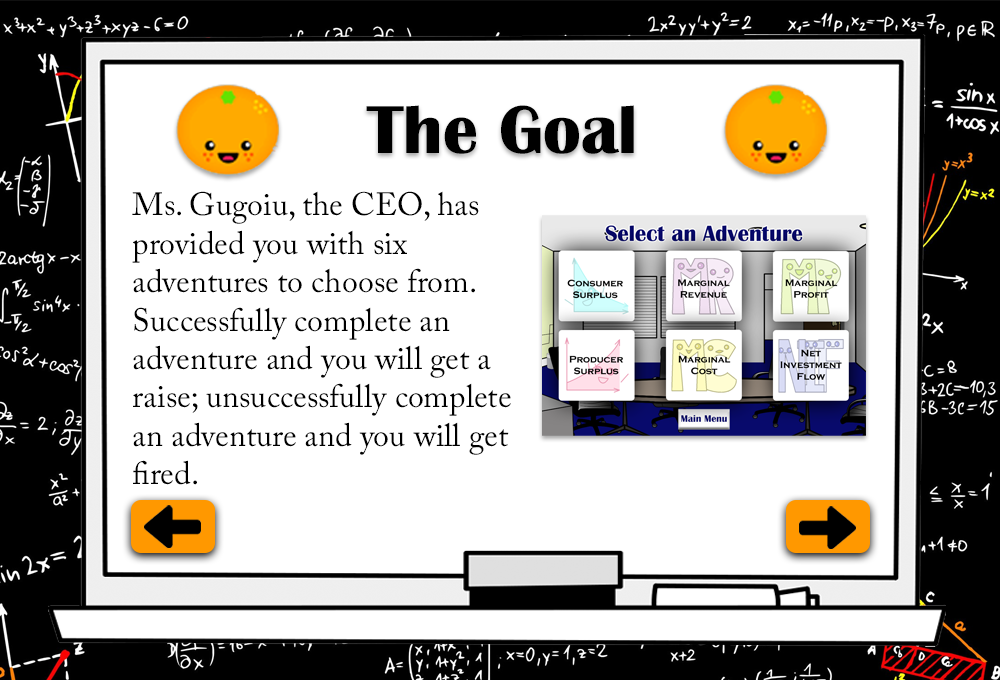
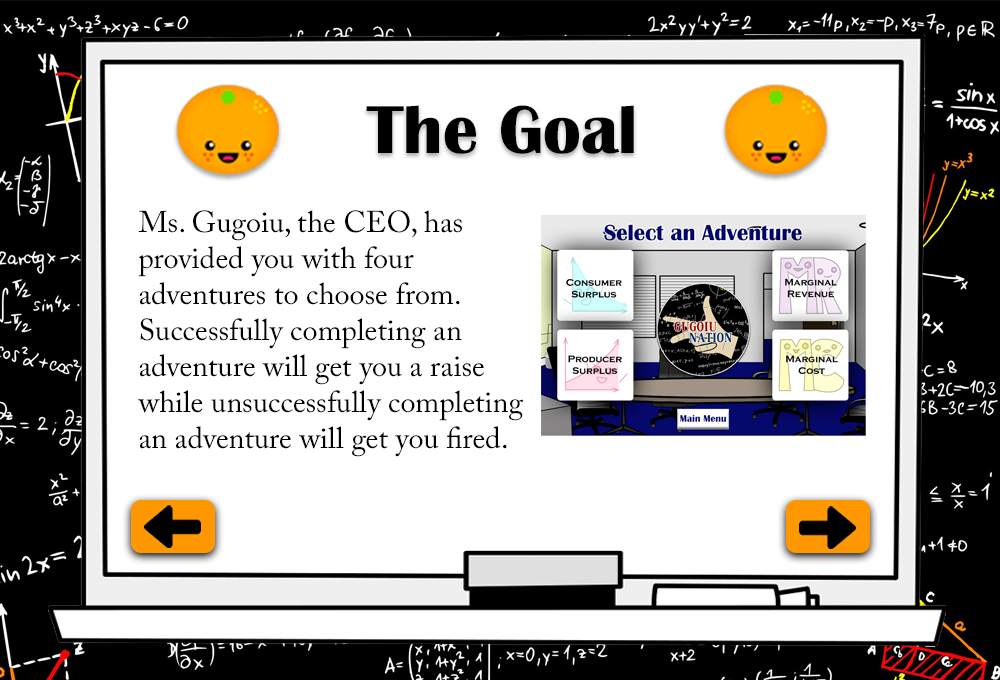
Fixed instructions

Changed region(s): [[0.124, 0.2779, 0.868, 0.7103]]

diff --git a/Instructions.java b/Instructions.java
@@ -32,10 +32,14 @@ public class Instructions extends JPanel
         {
           if (relativeX >= 786 && relativeX <= 870 && relativeY >= 500 && relativeY <= 553) //Next
           {
-            if (counter != 4)
+            if (counter != 3)
             {
               counter++;
               repaint();
+            }
+            else
+            {
+              Driver.changeScreens("MainMenu");
             }
           }
         }
